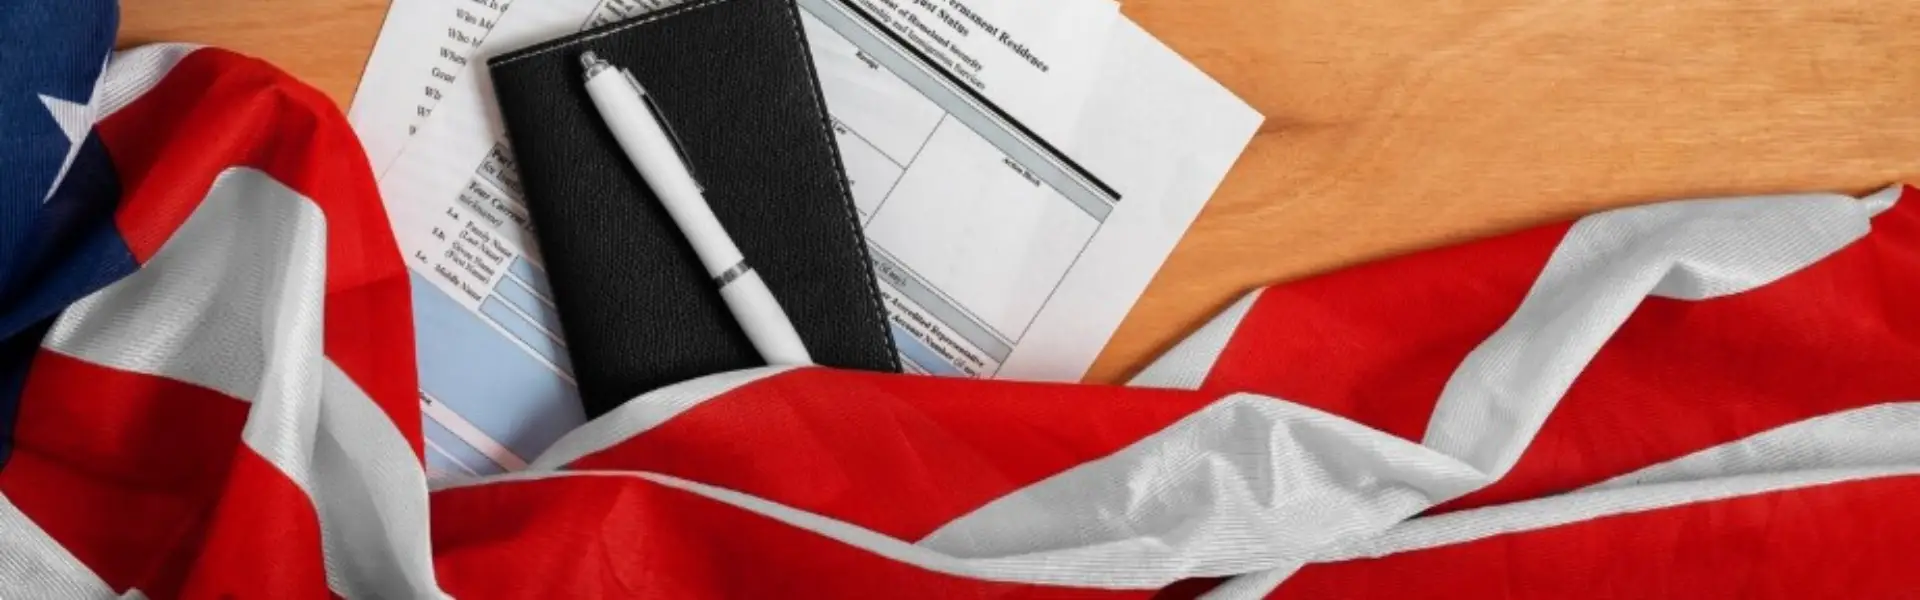
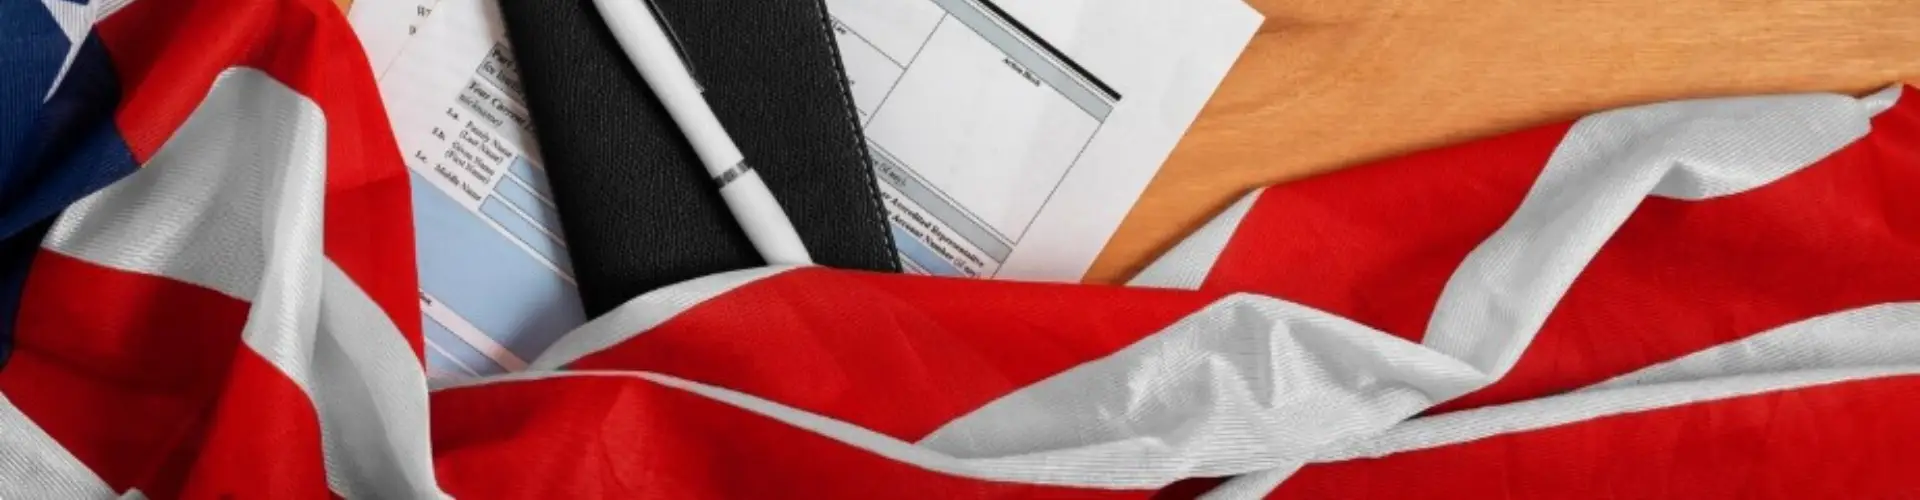
Familia 1

diff --git a/familia.html b/familia.html
@@ -1,61 +1,265 @@
 <!DOCTYPE html>
 <html lang="es">
 <head>
-    <meta charset="UTF-8">
-    <meta name="viewport" content="width=device-width, initial-scale=1.0">
-    <title>Derecho Familiar | Campos Law Firm</title>
-    <link rel="stylesheet" href="styles.css">
-    <link href="https://fonts.googleapis.com/css2?family=Inter:wght@300;400;500;600;700;800&display=swap" rel="stylesheet">
-    <link rel="stylesheet" href="https://cdnjs.cloudflare.com/ajax/libs/font-awesome/6.5.1/css/all.min.css">
+  <meta charset="UTF-8">
+  <meta name="viewport" content="width=device-width, initial-scale=1.0">
+  <meta name="description" content="Derecho familiar: divorcios, custodia, manutención, adopciones. Resolvemos disputas familiares con sensibilidad. Consulta gratis.">
+  <title>Derecho Familiar | Campos Law Firm</title>
+  
+  <link rel="preconnect" href="https://fonts.googleapis.com">
+  <link rel="preconnect" href="https://fonts.gstatic.com" crossorigin>
+  <link href="https://fonts.googleapis.com/css2?family=Inter:wght@400;500;600;700;800&display=swap" rel="stylesheet">
+  <link rel="stylesheet" href="https://cdnjs.cloudflare.com/ajax/libs/font-awesome/6.4.0/css/all.min.css">
+  <link rel="stylesheet" href="styles.css">
 </head>
 <body>
-
-    <header class="header">[MISMO HEADER]</header>
-
-    <section class="service-hero" style="padding: 0;">
-        <img src="images/servicio-familia-hero.jpg" alt="Derecho Familiar" style="width: 100%; height: 400px; object-fit: cover;">
-        <div class="container" style="margin-top: -250px; position: relative; text-align: center; color: white;">
-            <h1 style="font-size: 3rem;">Derecho Familiar</h1>
-            <p style="font-size: 1.2rem;">Protegemos lo más valioso: tu familia</p>
+  <!-- Header -->
+  <header class="header">
+    <div class="container">
+      <div class="header-inner">
+        <a href="index.html" class="logo">
+          <img src="images/logotipo.webp" alt="Campos Law Firm" class="logo-img">
+        </a>
+        
+        <nav class="nav" id="nav">
+          <ul>
+            <li><a href="index.html">Inicio</a></li>
+            <li><a href="inmigracion.html">Inmigración</a></li>
+            <li><a href="familia.html" class="active">Familia</a></li>
+            <li><a href="criminal.html">Criminal</a></li>
+            <li><a href="negocios.html">Negocios</a></li>
+            <li><a href="contacto.html">Contacto</a></li>
+          </ul>
+        </nav>
+        
+        <div class="header-actions">
+          <a href="contacto.html" class="btn btn-primary btn-header">Consulta Gratis</a>
+          
+          <div class="header-icons">
+            <i class="fas fa-user header-icon" id="userIcon" title="Iniciar Sesión"></i>
+            <i class="fas fa-shopping-cart header-icon" title="Carrito">
+              <span class="cart-badge">0</span>
+            </i>
+          </div>
+          
+          <div class="menu-btn" id="menuBtn">
+            <i class="fas fa-bars"></i>
+          </div>
         </div>
-    </section>
+      </div>
+    </div>
+  </header>
 
-    <section class="service-content" style="padding: 80px 0;">
-        <div class="container">
-            <div class="service-grid" style="display: grid; grid-template-columns: 2fr 1fr; gap: 50px;">
-                <div class="service-main">
-                    <h2>Resolvemos disputas familiares con sensibilidad y firmeza legal</h2>
-                    <p style="margin: 20px 0; line-height: 1.8;">Los casos de derecho familiar son emocionalmente difíciles. En Campos Law Firm entendemos la sensibilidad de estas situaciones y ofrecemos soluciones claras con empatía y firmeza legal.</p>
+  <!-- Modal Login -->
+  <div class="modal-overlay" id="loginModal">
+    <div class="modal">
+      <i class="fas fa-times modal-close" id="modalClose"></i>
+      <h3>Iniciar Sesión</h3>
+      <p>Accede a tu cuenta de Campos Law Firm</p>
+      
+      <form id="loginForm">
+        <div class="form-group">
+          <label for="email">Correo Electrónico</label>
+          <input type="email" id="email" placeholder="tu@email.com" required>
+        </div>
+        
+        <div class="form-group">
+          <label for="password">Contraseña</label>
+          <input type="password" id="password" placeholder="••••••••" required>
+        </div>
+        
+        <a href="#" class="forgot-password">¿Olvidaste tu contraseña?</a>
+        
+        <button type="submit" class="btn btn-primary">Iniciar Sesión</button>
+      </form>
+    </div>
+  </div>
 
-                    <!-- PLACEHOLDER IMAGEN 1: Familia feliz -->
-                    <img src="images/familia-feliz.jpg" alt="Familia feliz" style="width: 100%; border-radius: 10px; margin: 30px 0;">
-                    <p style="font-size: 0.8rem; color: #666; text-align: center;">*[placeholder: foto de familia feliz o abogado con cliente]*</p>
+  <!-- Page Header -->
+  <section class="page-header" style="background: linear-gradient(rgba(38,50,66,0.7), rgba(38,50,66,0.7)), url('images/page-header-familia.webp') center/cover no-repeat;">
+    <div class="container">
+      <div class="page-header-content">
+        <h1>Derecho Familiar</h1>
+        <p>Resolvemos disputas familiares con sensibilidad y firmeza legal</p>
+      </div>
+    </div>
+  </section>
 
-                    <h3>Nuestras prácticas en Derecho Familiar</h3>
-                    <ul style="margin: 20px 0 30px 30px; line-height: 1.8;">
-                        <li><strong>Divorcios:</strong> Contenciosos y de mutuo acuerdo.</li>
-                        <li><strong>Custodia de menores:</strong> Física y legal.</li>
-                        <li><strong>Manutención infantil:</strong> Cálculo y modificación.</li>
-                        <li><strong>Adopciones:</strong> Nacionales e internacionales.</li>
-                        <li><strong>Órdenes de protección:</strong> Violencia doméstica.</li>
-                    </ul>
-
-                    <h3>Talento y experiencia</h3>
-                    <p>Nuestro equipo cuenta con mediadores certificados que ayudan a familias a resolver disputas sin traumas.</p>
-                </div>
-
-                <div class="service-sidebar">
-                    <div class="sidebar-card" style="background: #f8f9fa; padding: 30px; border-radius: 10px;">
-                        <h3>Descarga nuestras guías</h3>
-                        <a href="#" style="color: #0056b3;">📄 Guía de divorcio</a><br>
-                        <a href="#" style="color: #0056b3;">📄 Guía de custodia</a>
-                    </div>
-                </div>
+  <!-- Main Content -->
+  <section class="page-content">
+    <div class="container">
+      <div class="content-grid">
+        <!-- Main Text -->
+        <div class="main-content">
+          <h2>Protegemos lo más valioso: tu familia</h2>
+          <p>Los casos de derecho familiar son emocionalmente difíciles. En Campos Law Firm entendemos la sensibilidad de estas situaciones y ofrecemos soluciones claras con empatía y firmeza legal.</p>
+          
+          <!-- IMAGEN PRINCIPAL -->
+          <div class="image-placeholder rounded">
+            <img src="images/practice-familiar.webp" alt="Derecho familiar" onerror="this.parentElement.innerHTML='<div class=\'placeholder-fallback\'><i class=\'fas fa-users\'></i><p>Imagen: Derecho Familiar</p></div>'">
+          </div>
+          
+          <h3>Nuestras prácticas en Derecho Familiar</h3>
+          <ul class="services-list">
+            <li>
+              <i class="fas fa-check-circle"></i>
+              <div>
+                <strong>Divorcios:</strong> Contenciosos y de mutuo acuerdo.
+              </div>
+            </li>
+            <li>
+              <i class="fas fa-check-circle"></i>
+              <div>
+                <strong>Custodia de menores:</strong> Física y legal.
+              </div>
+            </li>
+            <li>
+              <i class="fas fa-check-circle"></i>
+              <div>
+                <strong>Manutención infantil:</strong> Cálculo y modificación.
+              </div>
+            </li>
+            <li>
+              <i class="fas fa-check-circle"></i>
+              <div>
+                <strong>Adopciones:</strong> Nacionales e internacionales.
+              </div>
+            </li>
+            <li>
+              <i class="fas fa-check-circle"></i>
+              <div>
+                <strong>Órdenes de protección:</strong> Violencia doméstica.
+              </div>
+            </li>
+          </ul>
+          
+          <h3>Talento y experiencia</h3>
+          <p>Nuestro equipo cuenta con mediadores certificados que ayudan a familias a resolver disputas sin traumas.</p>
+        </div>
+        
+        <!-- Sidebar -->
+        <aside class="sidebar">
+          <!-- Download Guides -->
+          <div class="sidebar-widget">
+            <div class="widget-icon">
+              <i class="fas fa-file-pdf"></i>
             </div>
-        </div>
-    </section>
+            <h3>Descarga nuestras guías</h3>
+            <a href="#" class="btn btn-primary btn-block"><i class="fas fa-download"></i> Guía de divorcio</a>
+            <a href="#" class="btn btn-primary btn-block" style="margin-top: 10px;"><i class="fas fa-download"></i> Guía de custodia</a>
+          </div>
+          
+          <!-- CTA Widget -->
+          <div class="sidebar-widget recent-cases">
+            <div class="widget-icon">
+              <i class="fas fa-phone"></i>
+            </div>
+            <h3>¿Necesitas ayuda?</h3>
+            <p style="color: rgba(255,255,255,0.9); margin-bottom: 15px;">Estamos aquí para apoyarte en este momento difícil.</p>
+            <a href="contacto.html" class="btn-link">Consulta gratis →</a>
+          </div>
+        </aside>
+      </div>
+    </div>
+  </section>
 
-    <footer class="footer">...</footer>
-    <script src="script.js"></script>
+  <!-- Newsletter -->
+  <section class="newsletter">
+    <div class="container">
+      <h3>Suscríbete a Nuestro Boletín</h3>
+      <p>Recibe consejos legales, noticias y actualizaciones directamente en tu correo.</p>
+      
+      <form class="newsletter-form" id="newsletterForm">
+        <input type="email" placeholder="Tu correo electrónico" required>
+        <button type="submit">Suscribirse</button>
+      </form>
+      
+      <p class="newsletter-note">Al suscribirte, aceptas recibir correos de Campos Law Firm. Consulta nuestra <a href="#">Política de Privacidad</a>.</p>
+    </div>
+  </section>
+
+  <!-- Footer -->
+  <footer class="footer">
+    <div class="container">
+      <div class="footer-grid">
+        <div class="footer-col">
+          <img src="images/logo-white.webp" alt="Campos Law Firm" class="footer-logo" onerror="this.style.display='none'; this.parentElement.innerHTML='<h3>Campos <span>Law Firm</span></h3><p>Firma de abogados de alto nivel en Estados Unidos.</p>'">
+          <p>Firma de abogados de alto nivel en Estados Unidos. Representación estratégica y confiable en inmigración, derecho familiar, defensa criminal y más.</p>
+          <div class="social">
+            <a href="#" aria-label="Facebook"><i class="fab fa-facebook-f"></i></a>
+            <a href="#" aria-label="Instagram"><i class="fab fa-instagram"></i></a>
+            <a href="#" aria-label="LinkedIn"><i class="fab fa-linkedin-in"></i></a>
+            <a href="#" aria-label="YouTube"><i class="fab fa-youtube"></i></a>
+          </div>
+        </div>
+        
+        <div class="footer-col">
+          <h4>Áreas de Práctica</h4>
+          <ul>
+            <li><a href="inmigracion.html">Inmigración</a></li>
+            <li><a href="familia.html">Derecho Familiar</a></li>
+            <li><a href="criminal.html">Defensa Criminal</a></li>
+            <li><a href="negocios.html">Derecho de Negocios</a></li>
+          </ul>
+        </div>
+        
+        <div class="footer-col">
+          <h4>Enlaces Rápidos</h4>
+          <ul>
+            <li><a href="index.html">Inicio</a></li>
+            <li><a href="index.html#proceso">Cómo Trabajamos</a></li>
+            <li><a href="index.html#testimonios">Testimonios</a></li>
+            <li><a href="contacto.html">Contacto</a></li>
+          </ul>
+        </div>
+        
+        <div class="footer-col">
+          <h4>Contacto</h4>
+          <ul class="phone-list">
+            <li>
+              <div>
+                <strong>Service Line New Case:</strong>
+                <span class="flag-emoji">🇺</span> 
+                <a href="tel:+18449226767">+1 (844) 922-6767</a>
+              </div>
+            </li>
+            <li>
+              <div>
+                <strong>Client Services Line (Active Cases):</strong>
+                <span class="flag-emoji">🇺🇸</span> 
+                <a href="tel:+18338532595">+1 (833) 853-2595</a>
+              </div>
+            </li>
+            <li>
+              <div>
+                <strong>Service Line for Colombia:</strong>
+                <span class="flag-emoji">🇨🇴</span> 
+                <a href="tel:+573007728384">+57 300 772 8384</a>
+              </div>
+            </li>
+            <li>
+              <div>
+                <strong>Service Line for Mexico:</strong>
+                <span class="flag-emoji">🇲</span> 
+                <a href="tel:+523319342017">+52 33 1934 2017</a>
+              </div>
+            </li>
+            <li>
+              <div>
+                <span class="flag-emoji">✉</span> 
+                <a href="mailto:info@camposlawfirm.com">info@camposlawfirm.com</a>
+              </div>
+            </li>
+          </ul>
+        </div>
+      </div>
+      
+      <div class="footer-bottom">
+        <p>&copy; 2026 Campos Law Firm. Todos los derechos reservados. | <a href="#" style="color: rgba(255,255,255,0.5);">Política de Privacidad</a></p>
+      </div>
+    </div>
+  </footer>
+
+  <script src="script.js"></script>
 </body>
 </html>
